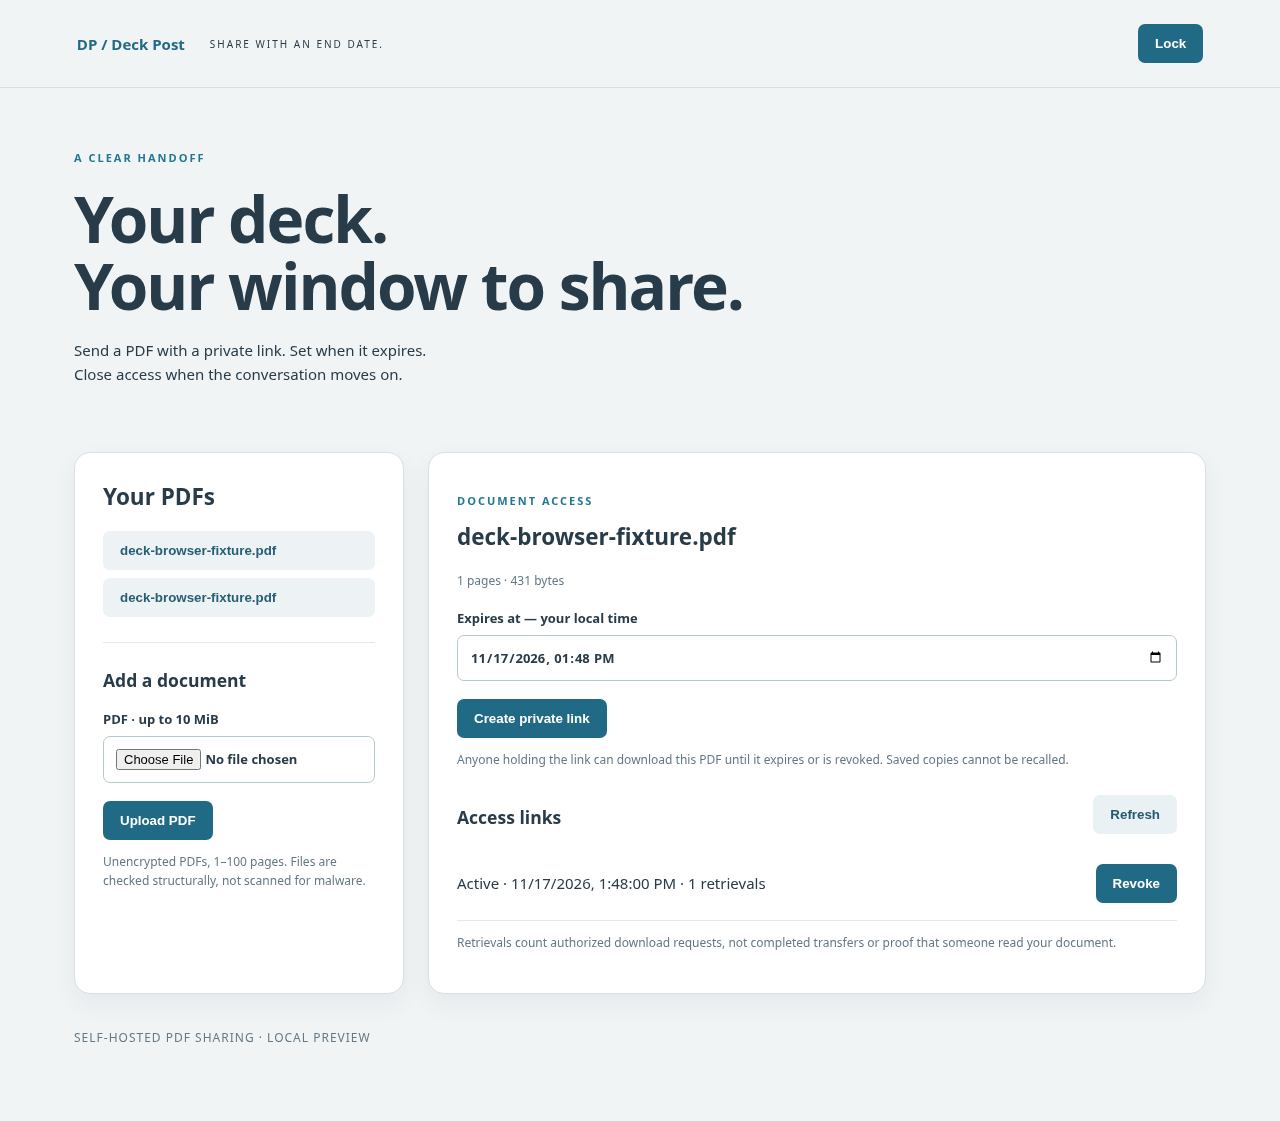
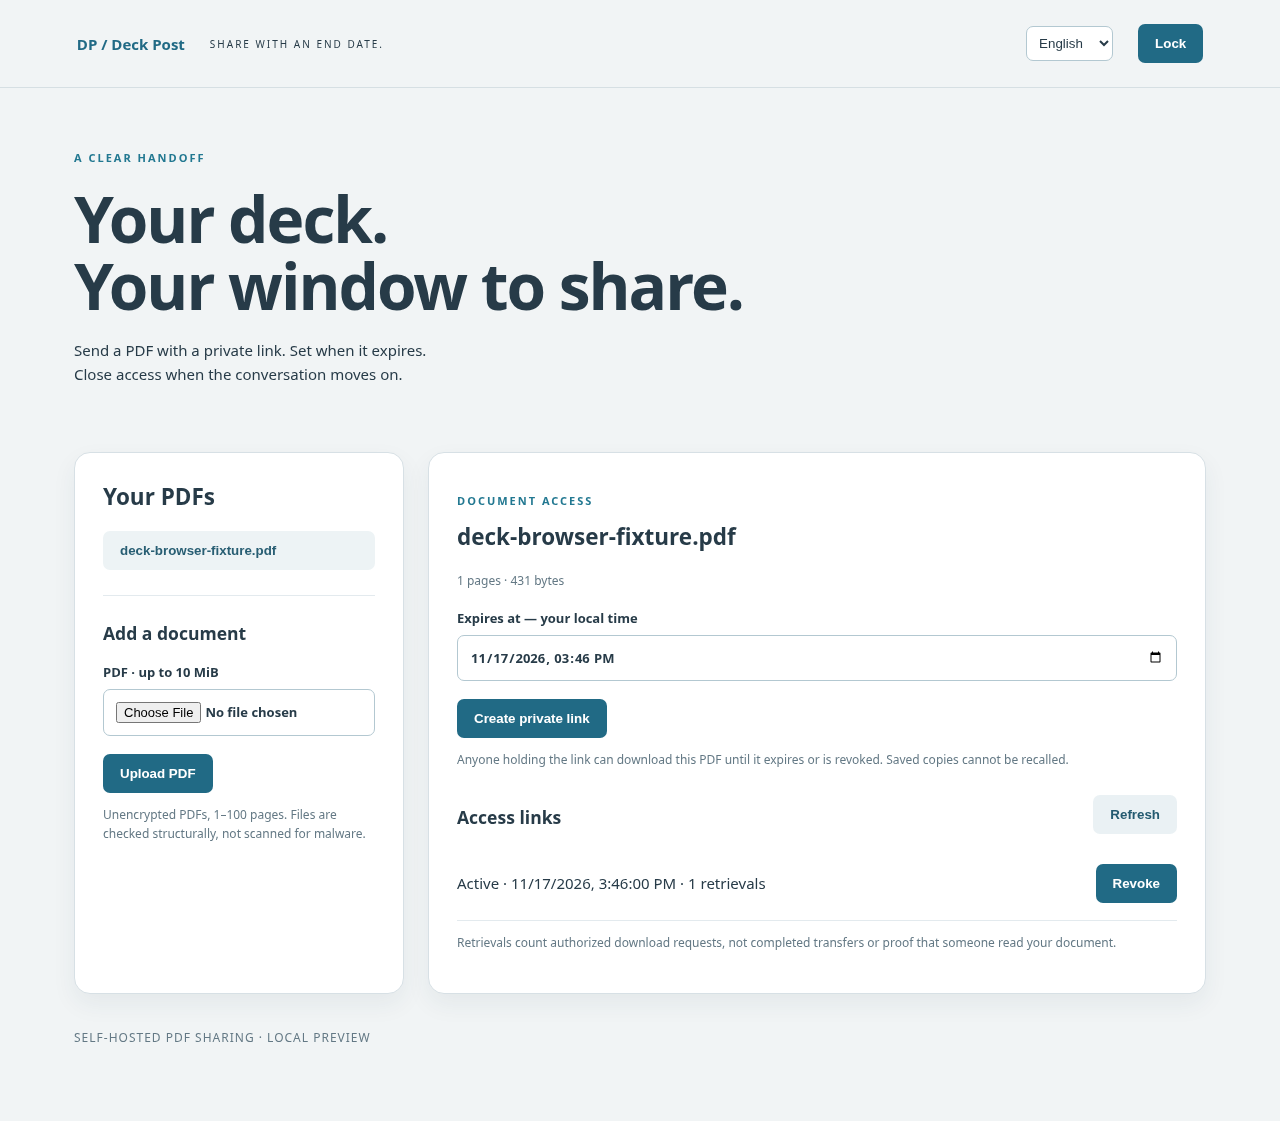
Add Spanish interface with preserved sharing state

Changed region(s): [[0.0625, 0.5308, 0.2812, 0.8118], [0.8125, 0.0312, 0.8438, 0.0624], [0.25, 0.7806, 0.2812, 0.8118]]

diff --git a/static/index.html b/static/index.html
@@ -1,1 +1,1 @@
-<!doctype html><html lang="en"><meta charset="utf-8"><meta name="viewport" content="width=device-width,initial-scale=1"><title>Deck Post</title><link rel="stylesheet" href="/static/style.css"><script defer src="/static/app.js"></script><body><header><a href="/">DP / Deck Post</a><small>SHARE WITH AN END DATE.</small><button id="lock">Lock</button></header><main><section class="intro"><p class="eyebrow">A CLEAR HANDOFF</p><h1>Your deck.<br>Your window to share.</h1><p>Send a PDF with a private link. Set when it expires.<br>Close access when the conversation moves on.</p></section><p id="message" role="status"></p><section id="login" class="card"><h2>Open your workspace</h2><form id="unlock"><label>Owner key<input id="key" type="password" autocomplete="off" required></label><button>Unlock workspace</button></form></section><section id="owner" hidden><div class="columns"><aside class="card"><h2>Your PDFs</h2><div id="files"></div><hr><h3>Add a document</h3><form id="upload"><label>PDF · up to 10 MiB<input id="file" type="file" accept=".pdf" required></label><button>Upload PDF</button></form><p class="muted">Unencrypted PDFs, 1–100 pages. Files are checked structurally, not scanned for malware.</p></aside><section id="workspace" class="card" hidden><p class="eyebrow">DOCUMENT ACCESS</p><h2 id="filename"></h2><p id="details" class="muted"></p><form id="create"><label>Expires at — your local time<input id="expiry" type="datetime-local" required></label><button>Create private link</button></form><label id="newLink" hidden>Save this private link now<input id="link" readonly></label><p class="muted">Anyone holding the link can download this PDF until it expires or is revoked. Saved copies cannot be recalled.</p><div class="heading"><h3>Access links</h3><button id="refresh" class="secondary">Refresh</button></div><div id="links"></div><p class="muted">Retrievals count authorized download requests, not completed transfers or proof that someone read your document.</p></section></div></section><section id="recipient" class="card" hidden><p class="eyebrow">A DOCUMENT FOR YOU</p><h2 id="recipientName"></h2><p id="recipientDetails"></p><button id="download">Download PDF</button><p class="muted">This PDF is not malware-scanned. Open it with an appropriate viewer. Access may expire or be revoked.</p></section><footer>SELF-HOSTED PDF SHARING · LOCAL PREVIEW</footer></main></body></html>
+<!doctype html><html lang="en"><meta charset="utf-8"><meta name="viewport" content="width=device-width,initial-scale=1"><title>Deck Post</title><link rel="stylesheet" href="/static/style.css"><script defer src="/static/i18n.js"></script><script defer src="/static/app.js"></script><body><header><a href="/">DP / Deck Post</a><small><span data-i18n="SHARE WITH AN END DATE.">SHARE WITH AN END DATE.</span></small><select id="language" aria-label="Language / Idioma"><option value="en">English</option><option value="es">Español</option></select><button id="lock"><span data-i18n="Lock">Lock</span></button></header><main><section class="intro"><p class="eyebrow"><span data-i18n="A CLEAR HANDOFF">A CLEAR HANDOFF</span></p><h1><span data-i18n="Your deck.">Your deck.</span><br><span data-i18n="Your window to share.">Your window to share.</span></h1><p><span data-i18n="Send a PDF with a private link. Set when it expires.">Send a PDF with a private link. Set when it expires.</span><br><span data-i18n="Close access when the conversation moves on.">Close access when the conversation moves on.</span></p></section><p id="message" role="status"></p><section id="login" class="card"><h2><span data-i18n="Open your workspace">Open your workspace</span></h2><form id="unlock"><label><span data-i18n="Owner key">Owner key</span><input id="key" type="password" autocomplete="off" required></label><button><span data-i18n="Unlock workspace">Unlock workspace</span></button></form></section><section id="owner" hidden><div class="columns"><aside class="card"><h2><span data-i18n="Your PDFs">Your PDFs</span></h2><div id="files"></div><hr><h3><span data-i18n="Add a document">Add a document</span></h3><form id="upload"><label><span data-i18n="PDF · up to 10 MiB">PDF · up to 10 MiB</span><input id="file" type="file" accept=".pdf" required></label><button><span data-i18n="Upload PDF">Upload PDF</span></button></form><p class="muted"><span data-i18n="Unencrypted PDFs, 1–100 pages. Files are checked structurally, not scanned for malware.">Unencrypted PDFs, 1–100 pages. Files are checked structurally, not scanned for malware.</span></p></aside><section id="workspace" class="card" hidden><p class="eyebrow"><span data-i18n="DOCUMENT ACCESS">DOCUMENT ACCESS</span></p><h2 id="filename"></h2><p id="details" class="muted"></p><form id="create"><label><span data-i18n="Expires at — your local time">Expires at — your local time</span><input id="expiry" type="datetime-local" required></label><button><span data-i18n="Create private link">Create private link</span></button></form><label id="newLink" hidden><span data-i18n="Save this private link now">Save this private link now</span><input id="link" readonly></label><p class="muted"><span data-i18n="Anyone holding the link can download this PDF until it expires or is revoked. Saved copies cannot be recalled.">Anyone holding the link can download this PDF until it expires or is revoked. Saved copies cannot be recalled.</span></p><div class="heading"><h3><span data-i18n="Access links">Access links</span></h3><button id="refresh" class="secondary"><span data-i18n="Refresh">Refresh</span></button></div><div id="links"></div><p class="muted"><span data-i18n="Retrievals count authorized download requests, not completed transfers or proof that someone read your document.">Retrievals count authorized download requests, not completed transfers or proof that someone read your document.</span></p></section></div></section><section id="recipient" class="card" hidden><p class="eyebrow"><span data-i18n="A DOCUMENT FOR YOU">A DOCUMENT FOR YOU</span></p><h2 id="recipientName"></h2><p id="recipientDetails"></p><button id="download"><span data-i18n="Download PDF">Download PDF</span></button><p class="muted"><span data-i18n="This PDF is not malware-scanned. Open it with an appropriate viewer. Access may expire or be revoked.">This PDF is not malware-scanned. Open it with an appropriate viewer. Access may expire or be revoked.</span></p></section><footer><span data-i18n="SELF-HOSTED PDF SHARING · LOCAL PREVIEW">SELF-HOSTED PDF SHARING · LOCAL PREVIEW</span></footer></main></body></html>

diff --git a/static/app.js b/static/app.js
@@ -1,15 +1,17 @@
-'use strict';const $=id=>document.getElementById(id);let key='',selected='',linkId='',recipient=null;
+'use strict';const $=id=>document.getElementById(id);let key='',selected='',linkId='',recipient=null,currentFile=null,message='';
 const hash=new URLSearchParams(location.hash.slice(1));if(hash.has('link')){linkId=hash.get('link');key=hash.get('key')||'';history.replaceState(null,'',location.pathname);}
-function say(s){$('message').textContent=s;}
+function say(s){message=s;$('message').textContent=t(s);}
 async function api(path,method='GET',body){const headers={Authorization:'Bearer '+key};if(body&&!(body instanceof FormData)){headers['Content-Type']='application/json';body=JSON.stringify(body);}const r=await fetch(path,{method,headers,body});if(!r.ok){let error;try{error=(await r.json()).error;}catch{}throw Error(error||'Request failed. Please retry.');}return r;}
 function act(fn){return async e=>{e?.preventDefault();say('');const button=e?.submitter;if(button)button.disabled=true;try{await fn();}catch(err){say(err.message);}finally{if(button)button.disabled=false;}};}
 function button(text,fn){const b=document.createElement('button');b.type='button';b.textContent=text;b.onclick=act(fn);return b;}
 function expiryDefault(){const date=new Date(Date.now()+86400000);date.setMinutes(date.getMinutes()-date.getTimezoneOffset());$('expiry').value=date.toISOString().slice(0,16);}
-async function list(){const files=await(await api('/api/files')).json();$('files').replaceChildren();for(const f of files)$('files').append(button(f.filename,async()=>{selected=f.id;$('filename').textContent=f.filename;$('details').textContent=`${f.pages} pages · ${f.bytes.toLocaleString()} bytes`;$('workspace').hidden=false;$('newLink').hidden=true;$('link').value='';expiryDefault();await links();}));}
-async function links(){if(!selected)return;const rows=await(await api(`/api/files/${selected}/links`)).json();$('links').replaceChildren();for(const r of rows){const row=document.createElement('div');row.className='row';const text=document.createElement('span');const expired=Date.now()>=r.expires*1000;text.textContent=`${r.revoked?'Revoked':expired?'Expired':'Active'} · ${new Date(r.expires*1000).toLocaleString()} · ${r.retrievals} retrievals`;row.append(text);if(!r.revoked&&!expired)row.append(button('Revoke',async()=>{if(!confirm('Revoke this private link? Existing copies will remain.'))return;await api(`/api/files/${selected}/links/${r.id}/revoke`,'POST');await links();}));$('links').append(row);}if(!rows.length)$('links').textContent='No access links yet.';}
+async function list(){const files=await(await api('/api/files')).json();$('files').replaceChildren();for(const f of files)$('files').append(button(f.filename,async()=>{selected=f.id;currentFile=f;$('filename').textContent=f.filename;$('details').textContent=t('{pages} pages · {bytes} bytes',{pages:f.pages,bytes:f.bytes.toLocaleString(language)});$('workspace').hidden=false;$('newLink').hidden=true;$('link').value='';expiryDefault();await links();}));}
+async function links(){if(!selected)return;const rows=await(await api(`/api/files/${selected}/links`)).json();$('links').replaceChildren();for(const r of rows){const row=document.createElement('div');row.className='row';const text=document.createElement('span');const expired=Date.now()>=r.expires*1000;text.textContent=`${t(r.revoked?'Revoked':expired?'Expired':'Active')} · ${new Date(r.expires*1000).toLocaleString(language)} · ${t('{count} retrievals',{count:r.retrievals})}`;row.append(text);if(!r.revoked&&!expired)row.append(button(t('Revoke'),async()=>{if(!confirm(t('Revoke this private link? Existing copies will remain.')))return;await api(`/api/files/${selected}/links/${r.id}/revoke`,'POST');await links();}));$('links').append(row);}if(!rows.length)$('links').textContent=t('No access links yet.');}
 $('unlock').onsubmit=act(async()=>{key=$('key').value;await list();$('key').value='';$('login').hidden=true;$('owner').hidden=false;});
 $('upload').onsubmit=act(async()=>{const body=new FormData();body.append('file',$('file').files[0]);await api('/api/files','POST',body);$('upload').reset();await list();say('PDF uploaded. Select it to create a private link.');});
 $('create').onsubmit=act(async()=>{const expires=Math.floor(new Date($('expiry').value).getTime()/1000);if(!Number.isSafeInteger(expires))throw Error('Choose a valid expiry date and time.');const result=await(await api(`/api/files/${selected}/links`,'POST',{expires})).json();$('link').value=location.origin+'/#'+new URLSearchParams({link:result.id,key:result.token});$('newLink').hidden=false;await links();});
 $('refresh').onclick=act(links);$('link').onclick=()=> $('link').select();$('lock').onclick=()=>{key='';location.replace('/');};
 $('download').onclick=act(async()=>{const r=await api(`/api/links/${linkId}/download`);const blob=await r.blob();const url=URL.createObjectURL(blob);const a=document.createElement('a');a.href=url;a.download=recipient.filename;a.click();setTimeout(()=>URL.revokeObjectURL(url),1000);say('Download requested. Check your browser downloads.');});
-if(linkId){$('login').hidden=true;act(async()=>{recipient=await(await api(`/api/links/${linkId}`)).json();$('recipientName').textContent=recipient.filename;$('recipientDetails').textContent=`${recipient.pages} pages · Access expires ${new Date(recipient.expires*1000).toLocaleString()}`;$('recipient').hidden=false;})();}
+if(linkId){$('login').hidden=true;act(async()=>{recipient=await(await api(`/api/links/${linkId}`)).json();$('recipientName').textContent=recipient.filename;$('recipientDetails').textContent=t('{pages} pages · Access expires {date}',{pages:recipient.pages,date:new Date(recipient.expires*1000).toLocaleString(language)});$('recipient').hidden=false;})();}
+
+document.addEventListener('languagechange',()=>{say(message);if(currentFile)$('details').textContent=t('{pages} pages · {bytes} bytes',{pages:currentFile.pages,bytes:currentFile.bytes.toLocaleString(language)});if(recipient)$('recipientDetails').textContent=t('{pages} pages · Access expires {date}',{pages:recipient.pages,date:new Date(recipient.expires*1000).toLocaleString(language)});links().catch(err=>say(err.message));});

diff --git a/static/i18n.js b/static/i18n.js
@@ -1,0 +1,10 @@
+'use strict';
+const spanish={"SHARE WITH AN END DATE.": "COMPARTE CON FECHA LÍMITE.", "Lock": "Bloquear", "A CLEAR HANDOFF": "UNA ENTREGA CLARA", "Your deck.": "Tu presentación.", "Your window to share.": "Tu plazo para compartir.", "Send a PDF with a private link. Set when it expires.": "Envía un PDF con un enlace privado. Elige cuándo caduca.", "Close access when the conversation moves on.": "Cierra el acceso cuando termine la conversación.", "Open your workspace": "Abre tu espacio de trabajo", "Owner key": "Clave del propietario", "Unlock workspace": "Desbloquear espacio", "Your PDFs": "Tus PDF", "Add a document": "Añadir un documento", "PDF · up to 10 MiB": "PDF · hasta 10 MiB", "Upload PDF": "Subir PDF", "Unencrypted PDFs, 1–100 pages. Files are checked structurally, not scanned for malware.": "PDF sin cifrar, de 1 a 100 páginas. Se comprueba su estructura, pero no se analizan en busca de malware.", "DOCUMENT ACCESS": "ACCESO AL DOCUMENTO", "Expires at — your local time": "Caduca el — hora local", "Create private link": "Crear enlace privado", "Save this private link now": "Guarda este enlace privado ahora", "Anyone holding the link can download this PDF until it expires or is revoked. Saved copies cannot be recalled.": "Cualquier persona con el enlace puede descargar este PDF hasta que caduque o se revoque. Las copias guardadas no se pueden recuperar.", "Access links": "Enlaces de acceso", "Refresh": "Actualizar", "Retrievals count authorized download requests, not completed transfers or proof that someone read your document.": "El contador registra solicitudes de descarga autorizadas, no transferencias completadas ni pruebas de lectura.", "A DOCUMENT FOR YOU": "UN DOCUMENTO PARA TI", "Download PDF": "Descargar PDF", "This PDF is not malware-scanned. Open it with an appropriate viewer. Access may expire or be revoked.": "Este PDF no se ha analizado en busca de malware. Ábrelo con un visor adecuado. El acceso puede caducar o revocarse.", "SELF-HOSTED PDF SHARING · LOCAL PREVIEW": "PDF EN TU SERVIDOR · VISTA PREVIA LOCAL", "Active": "Activo", "Expired": "Caducado", "Revoked": "Revocado", "Revoke": "Revocar", "Revoke this private link? Existing copies will remain.": "¿Revocar este enlace privado? Las copias existentes se conservarán.", "No access links yet.": "Todavía no hay enlaces de acceso.", "PDF uploaded. Select it to create a private link.": "PDF subido. Selecciónalo para crear un enlace privado.", "Choose a valid expiry date and time.": "Elige una fecha y hora de caducidad válidas.", "Download requested. Check your browser downloads.": "Descarga solicitada. Revisa las descargas del navegador.", "Request failed. Please retry.": "La solicitud ha fallado. Inténtalo de nuevo.", "Owner access denied.": "Acceso del propietario denegado.", "Link unavailable, expired or revoked.": "Enlace no disponible, caducado o revocado.", "Storage unavailable. Please retry.": "Almacenamiento no disponible. Inténtalo de nuevo.", "Choose a PDF file.": "Elige un archivo PDF.", "Use a plain PDF filename.": "Usa un nombre de archivo PDF sin rutas ni caracteres de control.", "PDF must contain 1 byte to 10 MiB.": "El PDF debe ocupar entre 1 byte y 10 MiB.", "PDF check failed. Use an unencrypted PDF with 1 to 100 pages within processing limits.": "No se pudo validar el PDF. Usa un PDF sin cifrar de 1 a 100 páginas dentro de los límites de procesamiento.", "Storage limit reached (100 MiB).": "Se ha alcanzado el límite de almacenamiento (100 MiB).", "Expiry must be in the next 366 days as an integer UTC timestamp.": "La caducidad debe estar dentro de los próximos 366 días.", "File not found.": "Archivo no encontrado.", "Link not found.": "Enlace no encontrado.", "{pages} pages · {bytes} bytes": "{pages} páginas · {bytes} bytes", "{count} retrievals": "{count} solicitudes", "{pages} pages · Access expires {date}": "{pages} páginas · El acceso caduca el {date}"};
+
+function supported(value){return /^es(?:-|$)/i.test(value||'')?'es':'en';}
+let language;try{language=localStorage.getItem('deck-language');}catch{}
+language=supported(language||navigator.language);
+function t(text,values={}){let result=(language==='es'&&spanish[text])||text;return result.replace(/\{(\w+)\}/g,(_,key)=>values[key]??'{'+key+'}');}
+function translateStatic(){document.documentElement.lang=language;document.querySelectorAll('[data-i18n]').forEach(el=>el.textContent=t(el.dataset.i18n));document.getElementById('language').value=language;}
+translateStatic();
+document.getElementById('language').addEventListener('change',e=>{language=supported(e.target.value);try{localStorage.setItem('deck-language',language);}catch{}translateStatic();document.dispatchEvent(new Event('languagechange'));});

diff --git a/static/style.css b/static/style.css
@@ -1,1 +1,3 @@
 *{box-sizing:border-box}body{margin:0;background:#f1f4f5;color:#273b48;font:15px system-ui,sans-serif}header{padding:24px 6%;display:flex;align-items:center;gap:25px;border-bottom:1px solid #d6dfe3}header a{font-weight:800;color:#216a85;text-decoration:none}header small{letter-spacing:2px;font-size:10px;margin-right:auto}main{max-width:1180px;margin:auto;padding:40px 24px}.intro{padding:10px 0 35px}.eyebrow{font-size:11px;letter-spacing:2px;font-weight:700;color:#227891}h1{font-size:clamp(38px,5vw,64px);line-height:1.05;letter-spacing:-2px;margin:18px 0}p{line-height:1.65}.columns{display:grid;grid-template-columns:330px minmax(0,1fr);gap:24px}.card{padding:28px;border:1px solid #d7e0e5;background:#fff;border-radius:16px;box-shadow:0 10px 25px #263b4810}h2{margin-top:0;overflow-wrap:anywhere}h3{margin-top:24px}label{display:block;font-size:13px;font-weight:650;margin:18px 0}input{display:block;width:100%;border:1px solid #b3c8d1;border-radius:7px;padding:12px;margin-top:8px;font:inherit;color:inherit;background:white}button{padding:12px 17px;border:0;border-radius:7px;background:#216a85;color:white;font-weight:650;cursor:pointer}button:disabled{opacity:.5;cursor:default}.secondary{color:#235a70;background:#eaf1f4}.muted,footer{font-size:12px;color:#647985}.heading{display:flex;justify-content:space-between;align-items:center}.row{display:flex;align-items:center;justify-content:space-between;gap:16px;padding:17px 0;border-bottom:1px solid #e3eaee}.row span{overflow-wrap:anywhere}.row button{flex-shrink:0}#files button{display:block;width:100%;text-align:left;background:#edf3f5;color:#285e73;margin:8px 0;overflow-wrap:anywhere}hr{border:0;border-top:1px solid #e3eaee;margin:25px 0}footer{padding:35px 0;letter-spacing:1px}#message:not(:empty){padding:14px;background:#fff0ce;border-radius:8px}[hidden]{display:none!important}@media(max-width:740px){.columns{grid-template-columns:1fr}main{padding:24px 16px}.card{padding:20px}header{padding:20px}header small{display:none}header button{margin-left:auto}.row{flex-wrap:wrap}}
+
+header{flex-wrap:wrap}header select{padding:8px;border:1px solid #b3c8d1;border-radius:7px;background:white;color:inherit;max-width:140px}

diff --git a/README.md b/README.md
@@ -4,7 +4,7 @@
 
 **Share a PDF with an expiry date. Revoke future access when the conversation moves on.**
 
-Local English browser preview; no hosted demo or public release yet.
+Local English/Spanish browser preview; no hosted demo or public release yet.
 
 ![Deck Post owner workspace](docs/assets/workspace.png)
 
@@ -30,7 +30,7 @@ Use Python 3.12 on Linux. PDFs are limited to 10 MiB, unencrypted, 1–100 pages
 
 Expiry and revocation prevent future retrieval; they cannot erase copies already obtained or stop an already authorized transfer. Retrieval events show that bytes were returned by the library, not successful network delivery or human reading. They are not unique visitors, verified identities or page-level engagement analytics. No client IP addresses or emails are collected by the core. PDFs are attachment-only in the local API; no download prevention or full DocSend parity is promised.
 
-Next: six languages and public HTTPS acceptance. [Scope and evidence](docs/SCOPE.md) · [MIT license](LICENSE).
+Next: German, Japanese, Simplified Chinese, Traditional Chinese and public HTTPS acceptance. [Scope and evidence](docs/SCOPE.md) · [MIT license](LICENSE).
 
 [Run the authenticated API](docs/API.md). Eighteen tests cover core behavior and HTTP upload/download/authentication, exact expiry, revocation, request limits, full attachments and retrieval-count semantics.
 
@@ -49,3 +49,5 @@ DECK_TEST_KEY="$DECK_OWNER_KEY" PYTHON=python3 node scripts/browser.cjs
 ```
 
 Override `DECK_URL` or `CHROMIUM` when needed. This test creates documents and links in the test database. Chromium acceptance covers upload, private-link creation, exact PDF bytes, metadata exclusion from counts, retrieval counts, revocation, real-time expiry and a 390px layout. Python tests cover authorization boundaries and malformed requests. No production deployment is claimed.
+
+The language selector supports English and Spanish, detects regional Spanish preferences and saves your choice when browser storage is available. Switching preserves selected files, expiry values, private links and original filenames. Native browser file/date controls follow browser settings. Translation review by native speakers remains pending. Run `DECK_URL=http://127.0.0.1:8099 node scripts/locales.cjs` after the browser workflow test against a disposable instance with its test key.
